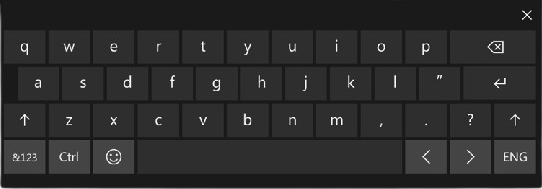
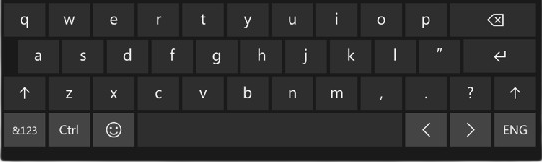
changes

diff --git a/app/Components/WorkingArea.tsx b/app/Components/WorkingArea.tsx
@@ -1,7 +1,15 @@
 import React from "react";
 import Image from "next/image";
 import picture from "../assets/keyboard.png";
-const WorkingArea = ({ opacity, disSize, keyboard, preView }: any) => {
+import { Button } from "@nextui-org/react";
+import { IoCloseSharp } from "react-icons/io5";
+const WorkingArea = ({
+  opacity,
+  disSize,
+  keyboard,
+  preView,
+  setKeyboard,
+}: any) => {
   return (
     <div
       className={`flex justify-center items-center ${
@@ -20,7 +28,16 @@ const WorkingArea = ({ opacity, disSize, keyboard, preView }: any) => {
         }`}
       >
         {keyboard && (
-          <div className="flex items-end">
+          <div className="bg-black">
+            <div className="flex items-end justify-end bg-black">
+              <Button
+                isIconOnly
+                variant="light"
+                onClick={() => setKeyboard(false)}
+              >
+                <IoCloseSharp className="text-white" />
+              </Button>
+            </div>
             <Image className="  " src={picture} alt=""></Image>
           </div>
         )}

diff --git a/app/Components/Workpage.tsx b/app/Components/Workpage.tsx
@@ -172,6 +172,7 @@ const Workpage = ({ toggle, setToggle, opacity, preView, setpreView }: any) => {
         keyboard={keyboard}
         preView={preView}
         setpreView={setpreView}
+        setKeyboard={setKeyboard}
       />
     </div>
   );
